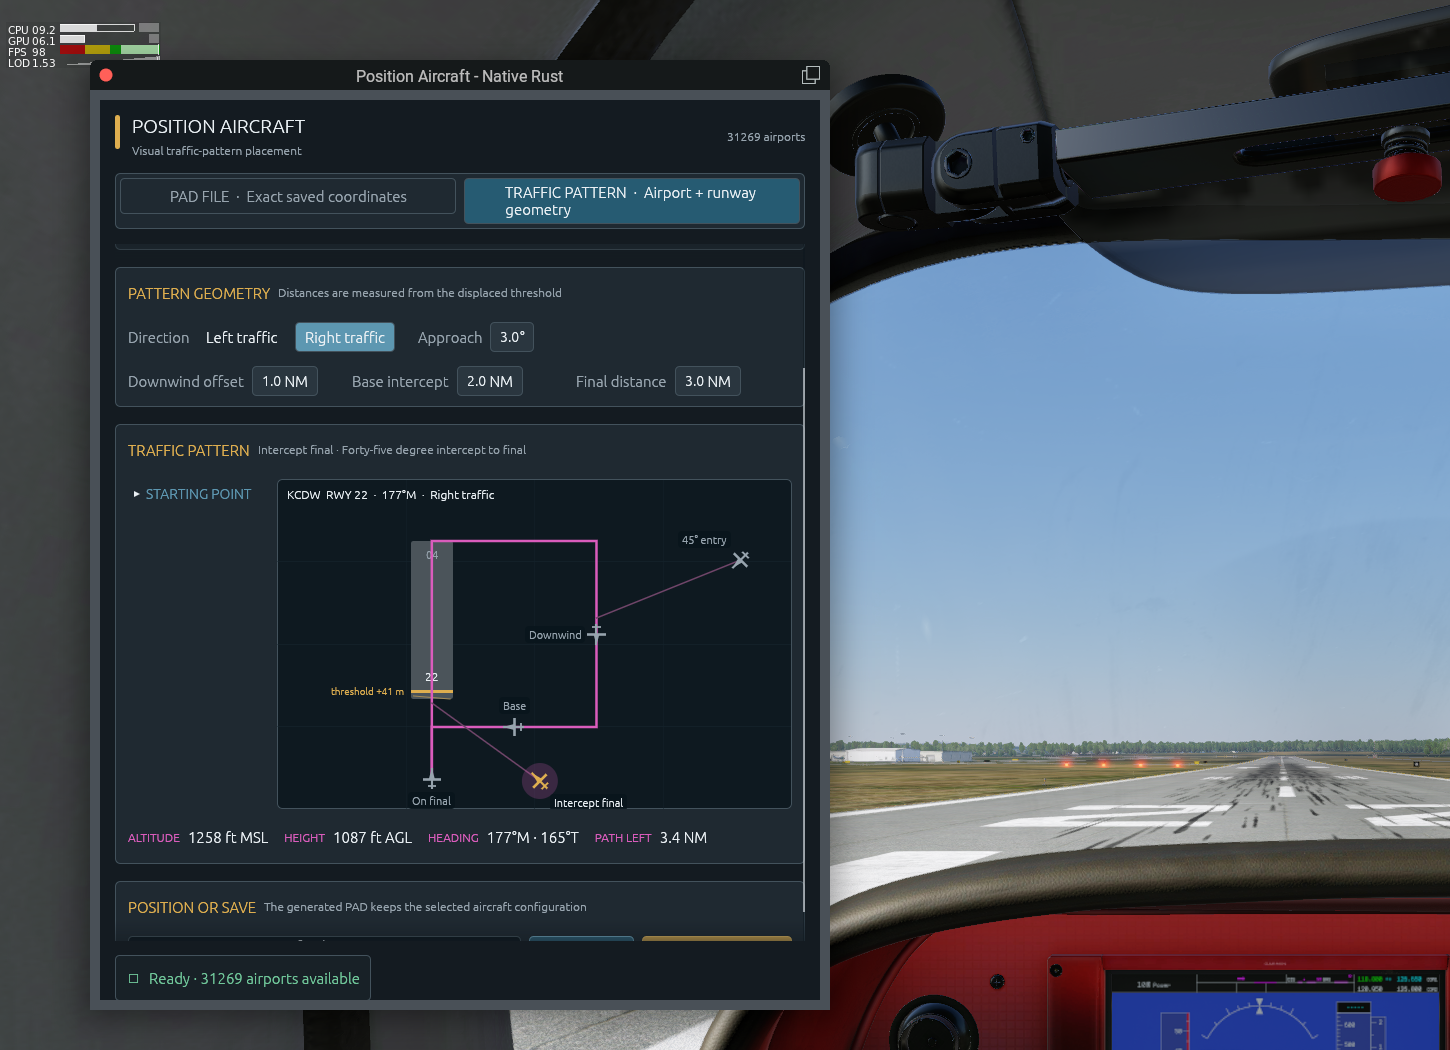
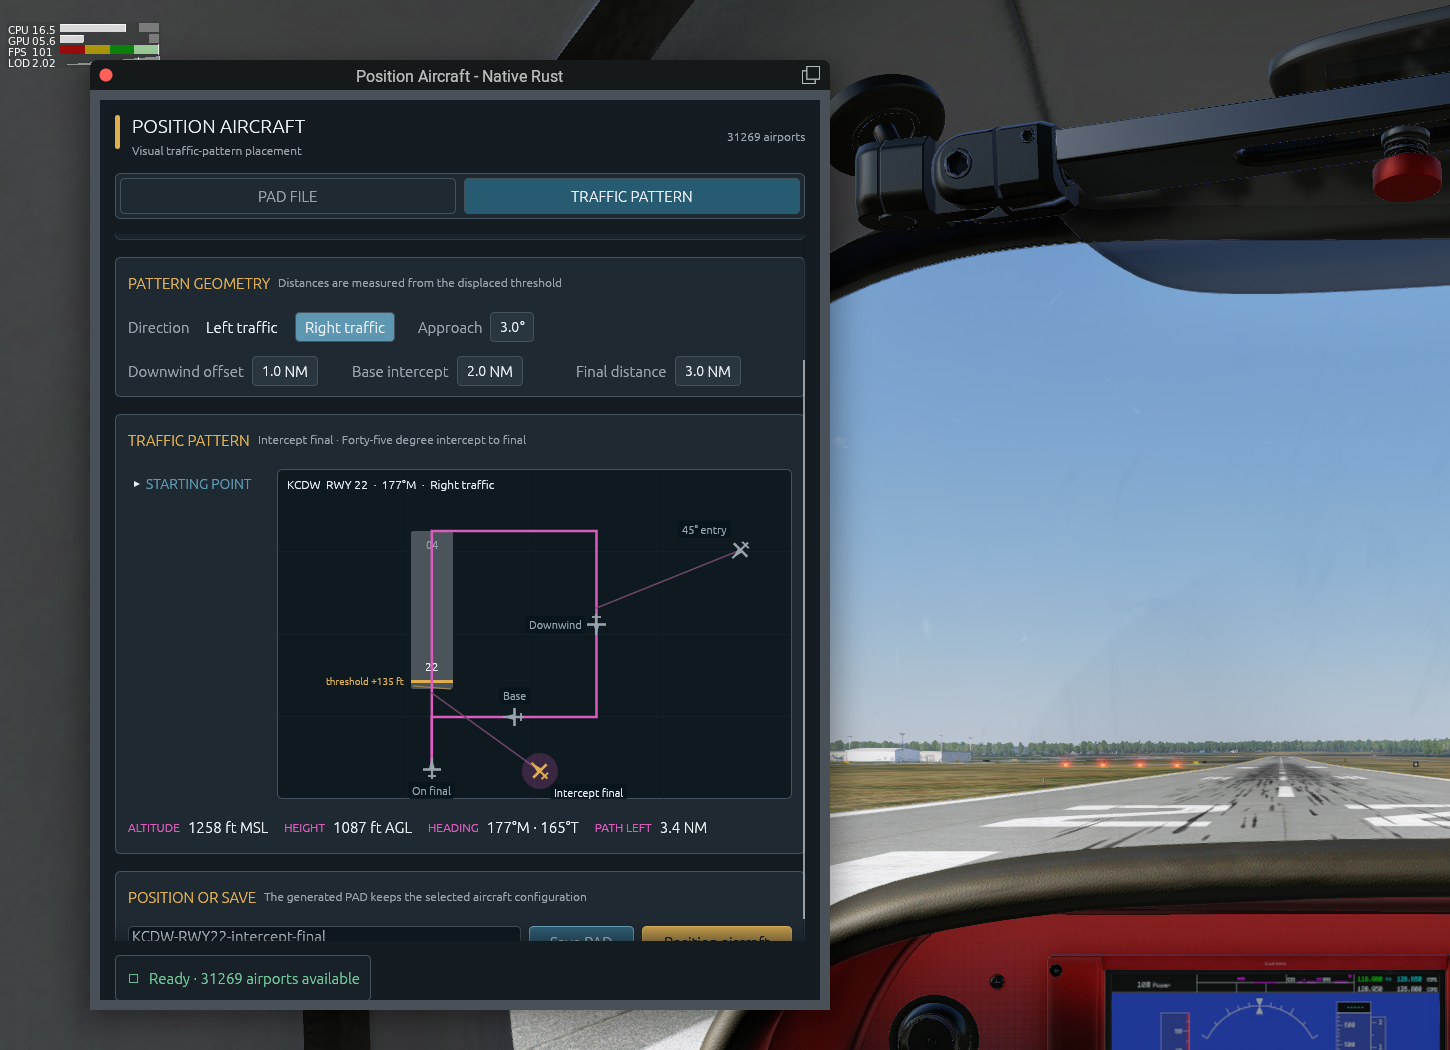
Simplify pattern tabs and use feet

diff --git a/plugins/position-aircraft/src/runtime/ui/view.rs b/plugins/position-aircraft/src/runtime/ui/view.rs
@@ -154,22 +154,18 @@ fn tab_bar(ui: &mut Ui, state: &mut PluginState, output: &mut ViewOutput) {
         .show(ui, |ui| {
             ui.columns(2, |columns| {
                 let tabs = [
-                    (PanelTab::Pad, "PAD FILE", "Exact saved coordinates"),
-                    (
-                        PanelTab::Pattern,
-                        "TRAFFIC PATTERN",
-                        "Airport + runway geometry",
-                    ),
+                    (PanelTab::Pad, "PAD FILE"),
+                    (PanelTab::Pattern, "TRAFFIC PATTERN"),
                 ];
-                for (column, (tab, label, detail)) in columns.iter_mut().zip(tabs) {
+                for (column, (tab, label)) in columns.iter_mut().zip(tabs) {
                     let selected = state.pattern.settings.active_tab == tab;
                     let response = column.add_sized(
                         [column.available_width(), 36.0],
-                        Button::new(
-                            RichText::new(format!("{label}  ·  {detail}"))
-                                .strong()
-                                .color(if selected { TEXT } else { MUTED }),
-                        )
+                        Button::new(RichText::new(label).strong().color(if selected {
+                            TEXT
+                        } else {
+                            MUTED
+                        }))
                         .selected(selected)
                         .fill(if selected {
                             Color32::from_rgb(38, 91, 114)

diff --git a/plugins/position-aircraft/src/runtime/ui/pattern_tab.rs b/plugins/position-aircraft/src/runtime/ui/pattern_tab.rs
@@ -11,6 +11,8 @@ use super::view::{
     ViewOutput,
 };
 
+const METERS_TO_FEET: f64 = 3.280_839_895_013_1;
+
 pub(super) fn show(ui: &mut Ui, state: &mut PluginState, output: &mut ViewOutput) {
     airport_and_configuration(ui, state, output);
     ui.add_space(10.0);
@@ -612,8 +614,8 @@ fn pattern_diagram(ui: &mut Ui, state: &mut PluginState, output: &mut ViewOutput
                     Align2::LEFT_CENTER
                 },
                 format!(
-                    "threshold +{:.0} m",
-                    preview.runway.end.displaced_threshold_m
+                    "threshold +{:.0} ft",
+                    preview.runway.end.displaced_threshold_m * METERS_TO_FEET
                 ),
                 FontId::proportional(10.0),
                 AMBER,
